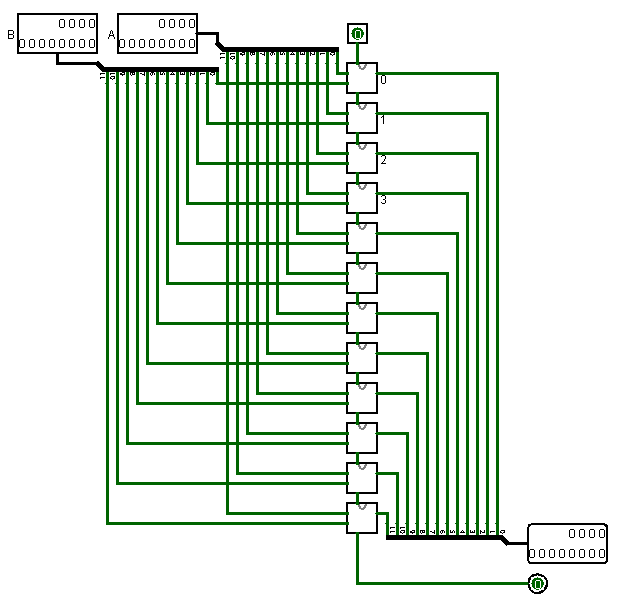
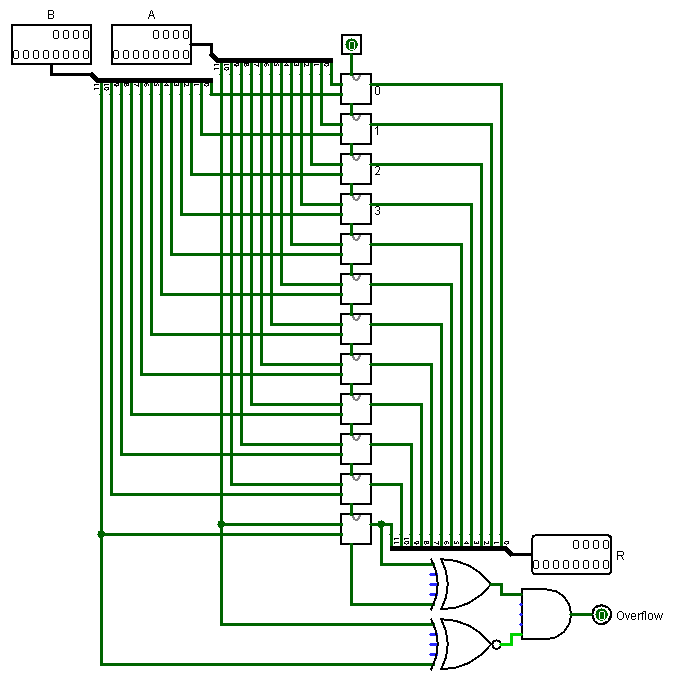
Verslag 2

Changed region(s): [[0.0, 0.0, 0.9854, 1.0]]

diff --git a/CA_PROJECT_2/Verslag.html b/CA_PROJECT_2/Verslag.html
@@ -54,13 +54,43 @@
 
     <h2>1-bit full adder</h2>
     <p>
-        Ongeoptimaliseerd <br><br>
-        a. Determine the inputs and outputs of a 1-bit full adder and build a truth table.
+        Een <i>1-bit full adder</i> heeft als inputs een A en B (de bits die
+        je wilt optellen) en een CarryIn. Als output geeft het de som van A en 
+        B en een CarryOut (indien relevant). We geven ook meteen de na&iuml;ve
+        implementatie mee. Dit is snelts mogelijke oplossigen, maar we gebruiken
+        een onnodig grote hoeveelheid gates. Daarom zullen we dit verder nog
+        optimaliseren.
     </p>
 
     <div style="text-align:center;">
         <img src="1_bit_ongeoptimaliseerd.png" alt="1 bit niet geoptimaliseerd"/>
     </div>
+
+    <p>
+        We zullen de waarhiedstabel om te zetten naar een booleaanse expressie 
+        voor zowel R (het resultaat van de som) als Co (de CarryOut). Deze 
+        kunnen we dan volgens vereenvoudigen.
+    </p>
+
+    <b>R:</b> (<u>A</u> &middot; <u>B</u> &middot; Ci) + (<u>A</u> &middot; B &middot; <u>Ci</u>) + (A &middot; <u>B</u> &middot; <u>Ci</u>) + (A &middot; B &middot; Ci)
+    <details>
+        <summary>= Amazing</summary>
+
+        <ul>
+            <li>
+                [Ci &middot; ((<u>A</u> &middot; <u>B</u>) + (A &middot; B))] + [<u>Ci</u> &middot; ((A &middot; <u>B</u>) + (<u>A</u> &middot; B))]
+            </li>
+            <li>
+                [Ci &middot; (<u>A</u> XOR B)] + [<u>Ci</u> &middot; (A XOR B)]
+            </li>
+            <li>
+                (Ci &middot; <u>Ci</u>) AND (<u>A</u> XOR B)] + [<u>Ci</u> &middot; (A XOR B)]
+                <note>(Distributive law)</note>
+            </li>
+        </ul>
+    </details>
+    
+    <b>Co:</b> (<u>A</u> &middot; B &middot; Ci) + (A &middot; <u>B</u> &middot; Ci) + (A &middot; B &middot; <u>Ci</u>) + (A &middot; B &middot; Ci)
     
     <p>
         Geoptimaliseerd <br><br>
@@ -72,20 +102,50 @@
         <img src="1_bit_geoptimaliseerd.png" alt="1 bit geoptimaliseerd"/>
     </div>
 
-    <h2>12-bit two’s complement ripple carry adder</h2>
+    <h2>12-bit two's complement ripple carry adder</h2>
 
     <p>
-        a. Create a new circuit in the same logisim file where you created your 1-bit adder. You
-        can do this by choosing from the menu ‘Project’ - ‘Add Circuit’. You can then choose
-        which circuit you want to edit by double clicking it in the library menu on the left
-        side. You can use a self made circuit as a building block in another circuit, in the
-        same way as you use other blocks/gates in your circuit. The interface of your block
-        is determined by the input and output ports you created in its circuit. <br>
-        b. Use 1-bit adders to create a 12-bit adder, that adds two 12-bit wide inputs. <br>
-        c. Think about a way how overflow can be determined from carry outs. Overflow hap-
-        pens for example in these cases: 2047 + 1 = -2048 or -2048 + (-1) = 2047. Add an
-        output bit denoting overflow to the circuit containing your 12-bit two’s complement
-        adder.
+        Nu plaatsen we 12 van onze voorgaande 1-bit full adders achter elkaar.
+        Onze 1-bit full adder had een CarryIn en een CarryOut. We zullen
+        telkens de CarryOut van de vorige adder als CarryIn met de volgende
+        adder meegeven. Dit is ook waarom men spreekt van een Ripple Carry 
+        Adder. De eerste adder kreegt een input CarryIn en de laaste input
+        wordt gebruikt om overflow te bepalen.
+    </p>
+
+    <p>
+        Overflow bestaat uit twee situaties:
+    </p>
+    
+    <ol>
+        <li>
+            Je telt twee positieve getallen op die een negatief getal vormen.
+            <p>
+                Dit kan gebeuren wanneer de som van twee 12-bit (positieve)
+                getallen een nieuw 12-bit getal vormen waarbij de most 
+                significant een 1 wordt. We weten dat bij two's complement, de
+                most significant bit het teken van het getal weergeeft (waarbij
+                1 negatief representeert). Daardoor weten we dat wanneer het
+                resultaat een 1 als most significant bit heeft, dat twee 
+                positieve getallen negatief worden.
+            </p>
+        </li>
+        <li>
+            Je telt twee negatieve getallen op die een positief getal vormen.
+            <p>
+                Dit werkt op een gelijkaardige manier als het vorige puntje.
+                Wanneer de som van negatieve getallen en nog groter negatief
+                getal is (dat niet met 12 bits gerepresenteerd kan worden) zal
+                de most significant bit niet langer correct het teken van het
+                getal weergeven.
+            </p>
+        </li>
+    </ol>
+    
+    <p>
+        Om dit te implementeren kijken we naar de most significant bits van de
+        input getallen A en B. Als deze dezelfde zijn en verschillen van de 
+        most significant bit van het resultaat, weten we dat er overflow is.
     </p>
 
     <div style="text-align:center;">
@@ -94,14 +154,22 @@
 
     <h2>12-bit two's complement carry lookahead adder</h2>
     <p>
-        a. Build a circuit for a 4-bit adder block. This block has inputs carryIn, a0, a1, a2, a3,
-        b0, b1, b2, b3 and outputs s0, s1, s2, s3, P0, G0. Note that there is no output for
-        carryOut, as a carry lookahead adder doesn’t use ci−1. <br>
-        b. Optimise this 4-bit adder block to decrease the circuit latency (maximum number of
-        ports traversed). Do this by expressing your block as a set of Boolean equations (for
-        every output pin, in terms of input pins), and using Boolean algebra or a truth table
-        to optimise these equations. What is always the maximum latency for combinatorial
-        circuits? Build your optimised 4-bit adder block.
+        Onze 12-bit two's complement carry lookahead adder zal bestaan uit 3 
+        4-bit carry lookahead adders en een carry lookahead unit. 
+    </p>  
+    
+    <p>
+        Voor onze 4-bit Carry Lookahead Adder berekende we telkens de 
+        propagates en generates voor alle inputs (A en B). Dit doen we omdat 
+        deze gebruikt kunnen worden om zowel de grote Propogate en Generate te 
+        berekenen als de verwachte som. We hebben zo weinig mogelijk gates
+        gebruikt voor onze implementatie. We komen op een totaal van 6 epsilon.
+    </p>
+
+    <p>
+        In rood zie je het langste pad dat uit 6 gates bestaat. De oranje pijl
+        toent dat de oranje gate in parallel met de eerste serie rode gates 
+        wordt berekent.
     </p>
 
     <div style="text-align:center;">
@@ -109,8 +177,9 @@
     </div>
 
     <p>
-        c. Build a circuit of a 12-bit two’s complement carry lookahead adder by creating a
-“carry lookahead unit” that uses three of your own 4-bit adder blocks.
+        Onze Carry Lookahead Unit neemt de Propagates en Generates die door
+        onze 4-bit adders worden berekent en bepaald de CarryIn voor de 
+        volgende adder.
     </p>
 
     <div style="text-align:center;">
@@ -118,11 +187,17 @@
     </div>
 
     <p>
-        d. On this 12-bit adder circuit, create an extra output bit, denoting overflow.
+        Wanneer je onze circuits dan combineert krijg je het volgende.
     </p>
 
     <div style="text-align:center;">
         <img src="12_bit_carry_lookahead.png" alt="12 bit carry lookahead unit"/>
     </div>
+
+    <p>
+        Door gebruik te maken van the Carry Lookahead Unit, kunnen we veel 
+        sneller uitkomsten berekenen dan met de Ripple Carry. De CarryIns van
+        alle adders worden in parallel berekent met het eindresultaat.
+    </p>
 </body>
 </html>
